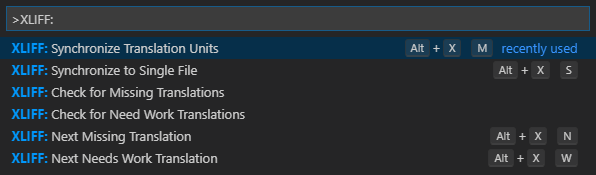
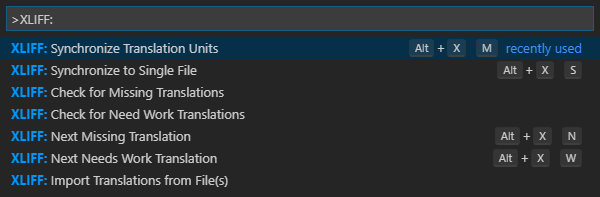
Updated README and CHANGELOG

diff --git a/README.md b/README.md
@@ -7,7 +7,7 @@ A VSCode extension to keep XLIFF translation files in sync with a specified, aut
 This project originated from the need for a tool to automatically merge/synchronize XLIFF translation files that are in the OASIS specification.
 This extension is based on the [Angular Localization Helper](https://github.com/manux54/vsc-angular-localization-helper) developed by [manux54](https://github.com/manux54), which has been extended so that it can also be used to synchronize files from other XLIFF generators.
 It is specifically targeted at synchronizing trans-units from an `<ApplicationName>.g.xlf` file automatically generated by the [AL Language](https://marketplace.visualstudio.com/items?itemName=ms-dynamics-smb.al) extension that can be used to develop extensions for Microsoft Dynamics 365 Business Central.
-Apart from synchronizing trans-units from a base-XLIFF file, this extension contributes various other features, including commands to check for missing translations and identify problems in translations.
+Apart from synchronizing trans-units from a base-XLIFF file, this extension contributes various other features, including commands to check for missing translations, detect problems in translations and import translations from external XLIFF files.
 
 * [Features](#features)
 * [Contributions](#contributions)
@@ -20,6 +20,7 @@ Apart from synchronizing trans-units from a base-XLIFF file, this extension cont
   * [Check for Need Work Translations](#check-for-need-work-translations)
   * [Find Next Missing Translation in XLIFF File](#find-next-missing-translation-in-xliff-file)
   * [Find Next Needs Work Translation in XLIFF File](#find-next-needs-work-translation-in-xliff-file)
+  * [Import Translations from File(s)](#import-translations-from-file(s))
 * [Known Issues](#known-issues)
 
 ## Features
@@ -29,6 +30,7 @@ Apart from synchronizing trans-units from a base-XLIFF file, this extension cont
   - Merge from the base-XLIFF file into all XLIFF files in the open workspace.
 * Search and highlight missing translations in an open XLIFF file.
 * Run technical validations to check for problems in the translations of target XLIFF files.
+* Import/Copy translations for matching sources from external XLIFF files to target XLIFF files.
 * Support for XLIFF 1.2 and 2.0
 * Convert between XLIFF 1.2 and 2.0 format.
 
@@ -44,6 +46,7 @@ Apart from synchronizing trans-units from a base-XLIFF file, this extension cont
 | **XLIFF: Check for Need Work Translations** | Checks if there are translations that need work in the target XLIFF files in the open project folder. For example, the source text contains placeholders (e.g., "%1" or "{0}") while the translation does not. Translations with problems will be tagged with `needs-adaptation`. For each file with translations that need work, an informational message will be shown (with a button to open the file externally). |
 | **XLIFF: Next Missing Translation** | In an XLIFF file that is currently opened in the active editor, search for the next missing translation. |
 | **XLIFF: Next Needs Work Translation** | In an XLIFF file that is currently opened in the active editor, search for the next translation tagged as `needs-adaptation`. |
+| **XLIFF: Import Translations from File(s)** | Import/Copy translations from external XLIFF files to trans-units with matching sources of target XLIFF files with the same target-language. |
 
 ![XLIFF Sync Command Palette Commands](resources/xliffSync_commandPaletteCommands.png)
 
@@ -54,9 +57,11 @@ Apart from synchronizing trans-units from a base-XLIFF file, this extension cont
 | xliffSync.baseFile | `application.g.xlf` | Specifies which XLIFF file to use as the base (e.g., the generated XLIFF). If the file does not exist, you will be prompted to specify the file to use as base-XLIFF file the first time you use the Synchronize command. |
 | xliffSync.fileType | `xlf` | The file type (`xlf` or `xlf2`). |
 | xliffSync.missingTranslation | `%EMPTY%` | The placeholder for missing translations for trans-units that were synced/merged into target XLIFF files. You can use `%EMPTY%` if you want to use an empty string for missing translations. |
-| "xliffSync.findByXliffGeneratorAndDeveloperNote" | `true` | Specifies whether or not the extension will try to find trans-units by XLIFF generator note and developer note. |
-| xliffSync.findByXliffGeneratorNote | `true` | Specifies whether or not the extension will try to find translation unit by XLIFF generator note. |
-| xliffSync.findBySource | `false` | Specifies whether or not the extension will try to find translation unit by source. If there are multiple translation units with the same source, then the translation of the first translation unit is used for all units. |
+| xliffSync.findByXliffGeneratorNoteAndSource | `true` | Specifies whether or not the extension will try to find trans-units by XLIFF generator note and source. |
+| xliffSync.findByXliffGeneratorAndDeveloperNote | `true` | Specifies whether or not the extension will try to find trans-units by XLIFF generator note and developer note. |
+| xliffSync.findByXliffGeneratorNote | `true` | Specifies whether or not the extension will try to find trans-units by XLIFF generator note. |
+| xliffSync.findBySourceAndDeveloperNote | `false` | Specifies whether or not the extension will try to find translations by the combination of source and developer note. |
+| xliffSync.findBySource | `false` | Specifies whether or not the extension will try to find translations by source. If there are multiple trans-units with the same source, then the translation of the first translation unit is used for all units. |
 | xliffSync.developerNoteDesignation | `Developer` | Specifies the name that is used to designate a developer note. |
 | xliffSync.xliffGeneratorNoteDesignation | `Xliff Generator` | Specifies the name that is used to designate a XLIFF generator note. |
 | xliffSync.autoCheckMissingTranslations | `false` | Specifies whether or not the extension should automatically check for missing translations after syncing. |
@@ -64,17 +69,19 @@ Apart from synchronizing trans-units from a base-XLIFF file, this extension cont
 | xliffSync.needWorkTranslationRules | `["OptionMemberCount", "OptionLeadingSpaces", "Placeholders"]` | Specifies which technical validation rules should be used. |
 | xliffSync.preserveTargetAttributes | `false` | Specifies whether or not syncing should use the attributes from the target files for the trans-unit nodes while syncing. |
 | xliffSync.preserveTargetAttributesOrder | `false` | Specifies whether the attributes of trans-unit nodes should use the order found in the target files while syncing. |
-| xliffSync.decoration | 'Highlight yellow, white border' | Specifies how to highlight missing translations or translations that need work in an XLIFF file opened in the editor. |
+| xliffSync.replaceTranslationsDuringImport | `false` | Specifies whether existing translations will be replaced when the XLIFF: Import Translations from File(s) command is run. |
+| xliffSync.decoration | `{"backgroundColor": "rgba(240, 210, 105, 0.35)", "overviewRulerColor": "rgba(240, 210, 105, 0.35)", "border": "1px solid white", "borderRadius": "4px"}` | Specifies how to highlight missing translations or translations that need work in an XLIFF file opened in the editor. |
 
 ## Usage
 
-The extension will try to find corresponding translations units within an existing file for each units in the base file by searching units in the following order:
+The extension will try to find corresponding trans-units and translations within an existing file for each units in the base file by searching units in the following order:
 
 > 1.  By Id
-> 2.  By XLIFF Generator note & Source
-> 3.  By XLIFF Generator note & Developer Note (optional)
-> 4.  By XLIFF Generator note (optional)
-> 5.  By Source (optional)
+> 2.  By XLIFF Generator Note & Source (enabled by default, configurable)
+> 3.  By XLIFF Generator Note & Developer Note (enabled by default, configurable)
+> 4.  By XLIFF Generator Note (enabled by default, configurable)
+> 5.  By Source & Developer Note (disabled by default, configurable)
+> 6.  By Source (disabled by default, configurable)
 
 If no translation unit is found, the unit is added and tagged as missing.
 
@@ -177,7 +184,19 @@ On a Macbook Pro, this command appears on the touchbar within XLIFF files.
 Translations that need work are tagged and highlighted. You can use this command to navigate between translations that need work.
 On a Macbook Pro, this command appears on the touchbar within XLIFF files.
 
+### Import Translations from File(s)
+
+#### Using the Command Palette
+
+> 1. F1 or Ctrl/Cmd + Shift + P to open the command palette
+> 2. **XLIFF: Import Translations from File(s)**
+
+This will open a file dialog in which you can select one or more XLIFF files (.xlf or .xlf2).
+The command will copy translations from the selected files to trans-units in the XLIFF files in your project folder with the same target-language for matching sources.
+It will try first to merge translations for trans-units with a matching combination of source-text and Developer note, and only after that try to merge translations to trans-units with matching source-text.
+That way you could utilize the Developer note to have the import perform a more precise merge of the translations (e.g., based on tags in the Developer notes).
+
 ## Known Issues
 
 * Automatically inserting new group nodes into target files may not work yet.
-* The NAV2018 generated .g.xlf file does not include the Xliff Generator notes, therefore you should only synchronize based on ID with NAV2018.
+* The NAV2018 generated XLIFF generators creates Xliff Generator Notes without any identifiers, therefore it is recommended to change the `xliffSync.findBy...` settings to not synchronize trans-units based on Xliff Generator notes.

diff --git a/CHANGELOG.md b/CHANGELOG.md
@@ -4,6 +4,14 @@ All notable changes to the "XLIFF Sync" extension will be documented in this fil
 
 ## [Releases]
 
+## [0.2.4] 18-08-2019
+* Added new command `XLIFF: Import Translations from File(s)` to import translations based on source and Developer note from external .xlf and .xlf2 files. You can select one more XLIFF files and translations will be merged into trans-units of XLIFF files in the project folder with matching target-language.
+* Added new setting `xliffSync.replaceTranslationsDuringImport` (accompanying the above command) that can be used to specify whether the import of translations from external XLIFF files should replace/overwrite existing translations.
+* Added new settings to further customize how trans-units and translations are synchronized:
+  * `xliffSync.findByXliffGeneratorNoteAndSource`
+  * `xliffSync.findBySourceAndDeveloperNote`
+* Misc. updates in README (e.g., summary, badges)
+
 ## [0.2.3] 11-08-2019
 * Added MIT copyright notices for all authors to sources
 * Updated extension logo, adding outline (N.B., to also display nicely in VSCode's Light themes)
